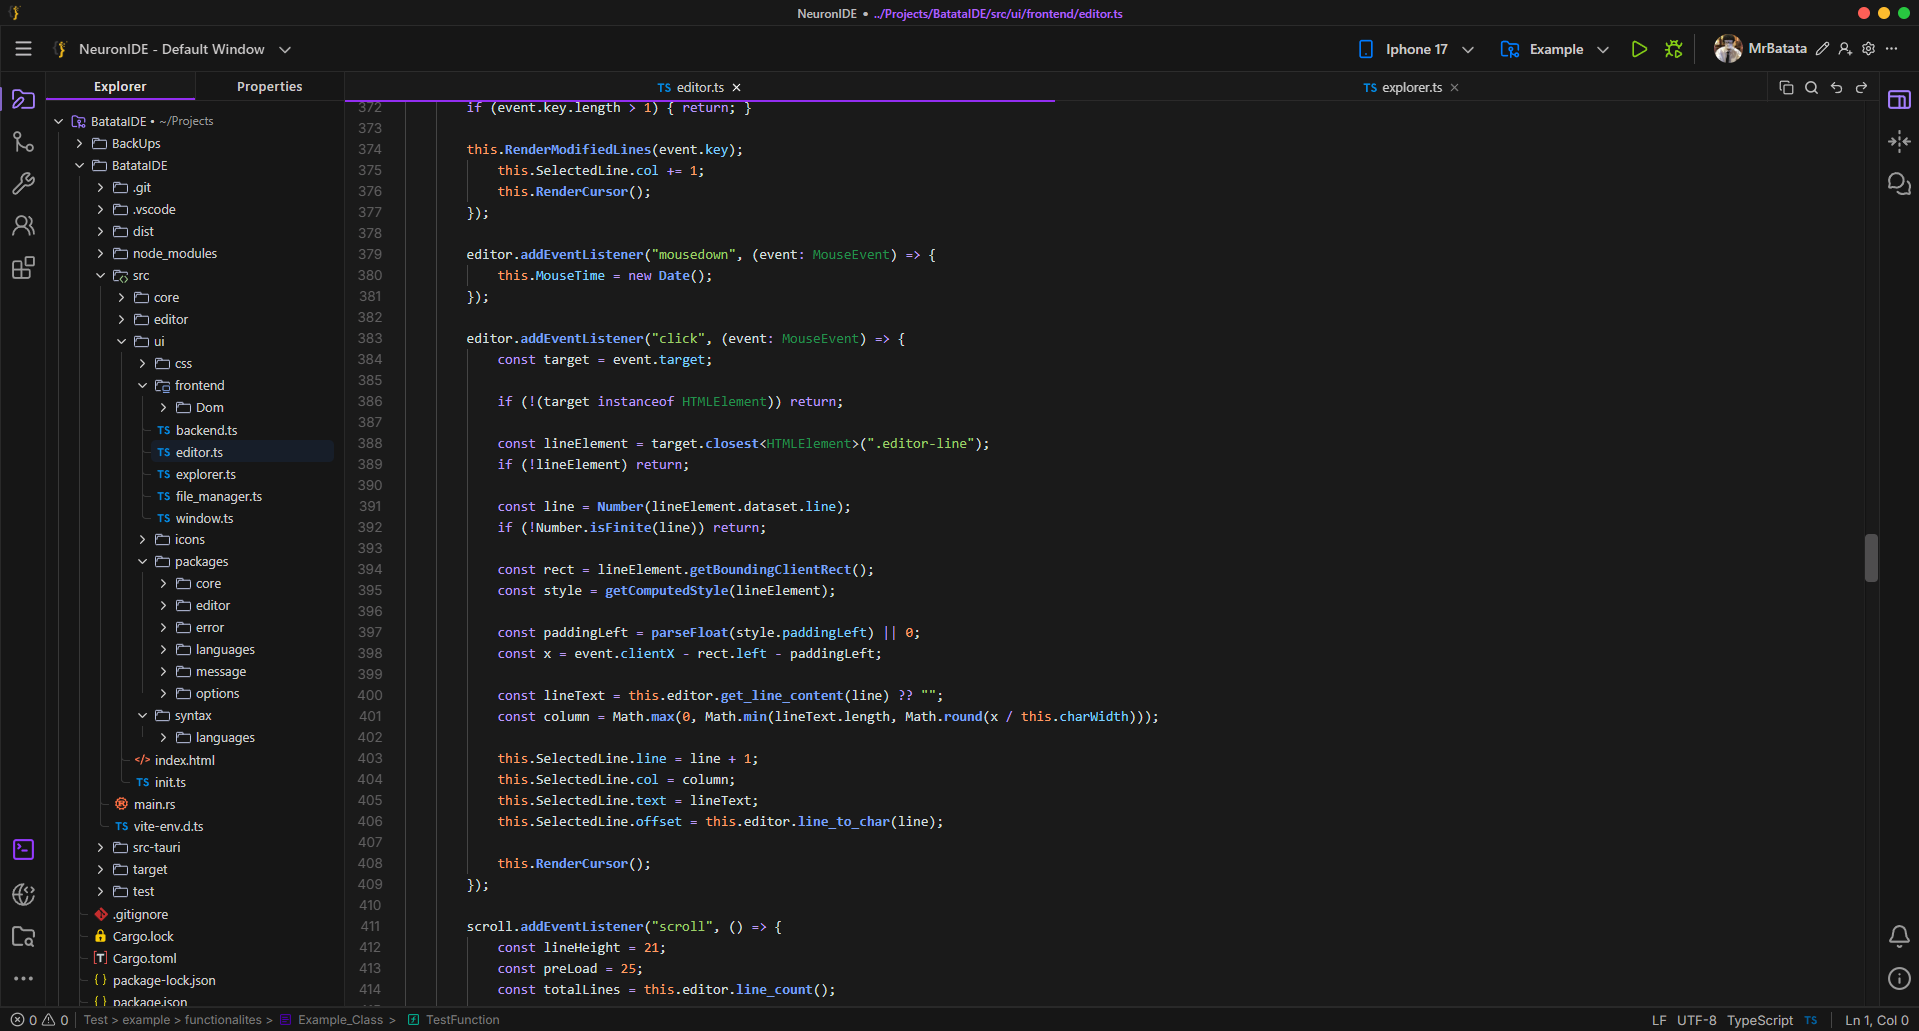
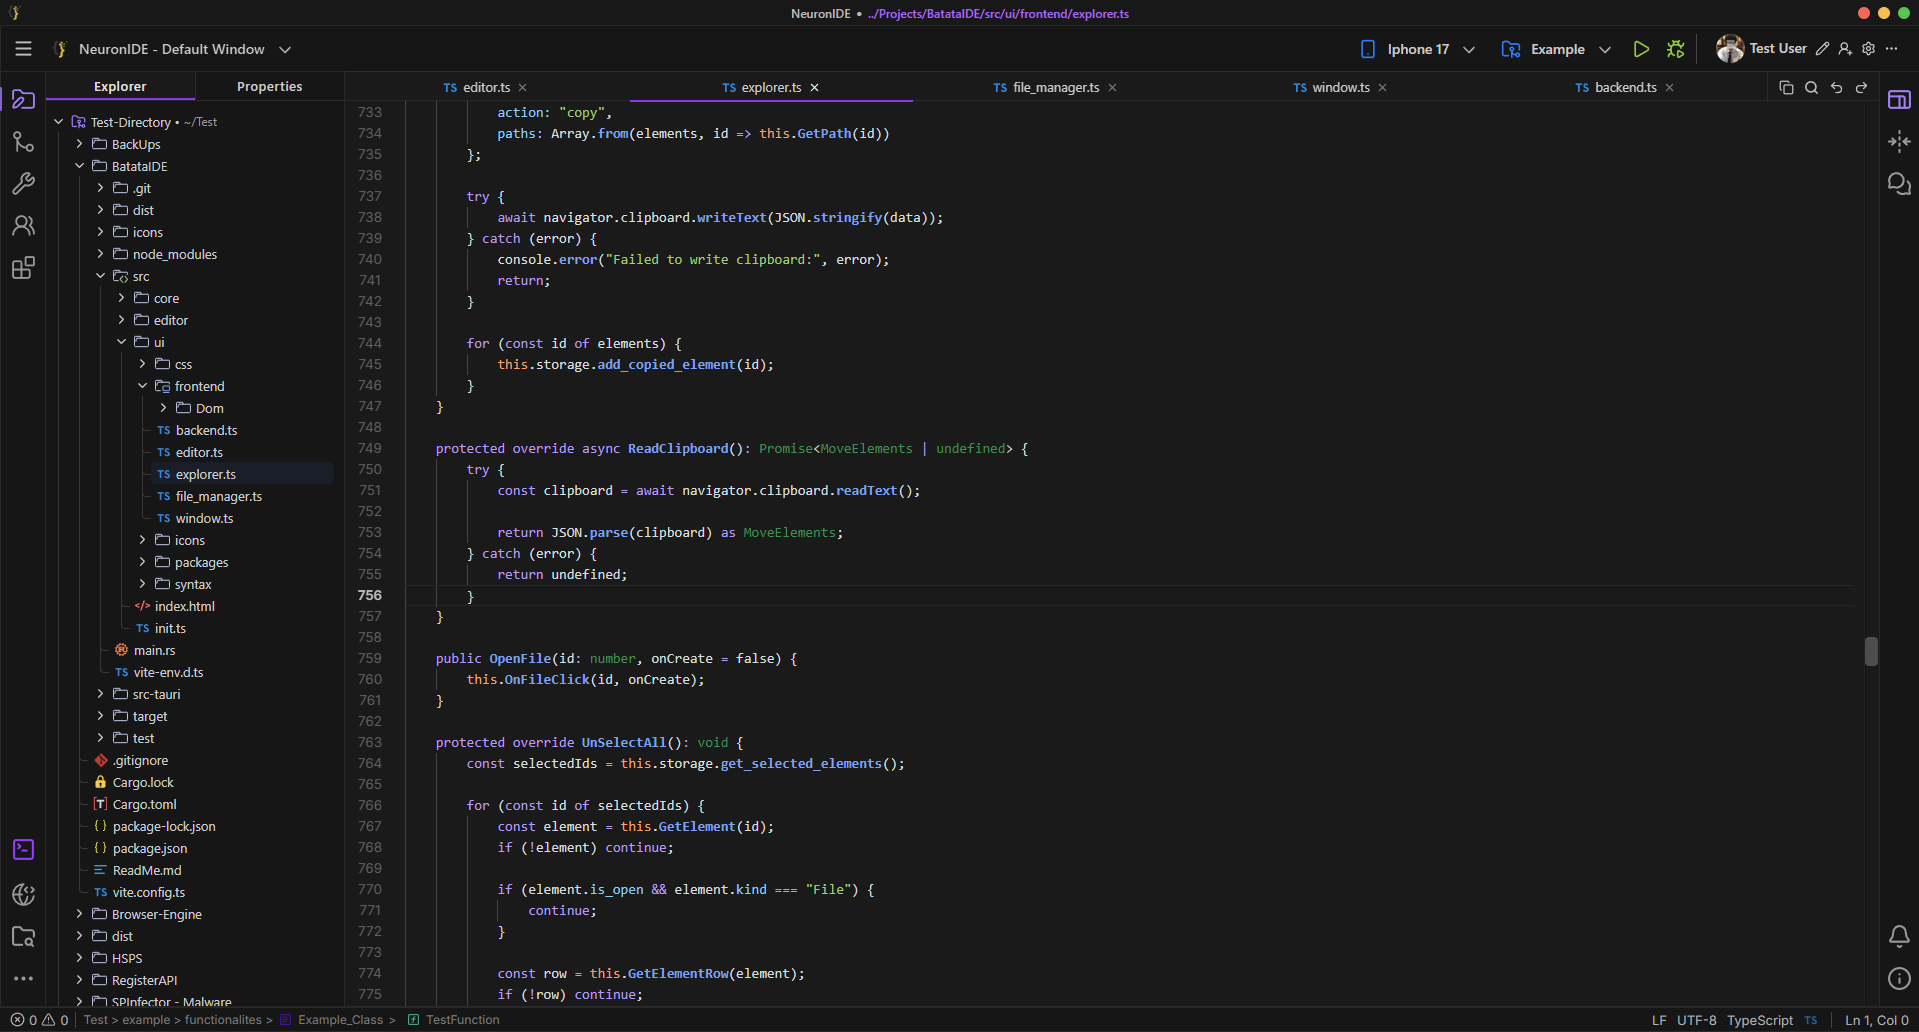
Initial commit - Pre-Alpha 1.9.0

diff --git a/src/ui/index.html b/src/ui/index.html
@@ -89,7 +89,7 @@
         <div class="user">
           <div class="profile_photo"><img src="./icons/settings/user.png"></div>
           <div class="username">
-            <span>MrBatata</span>
+            <span>Test User</span>
             <img src="./icons/settings/pen.svg">
             <img src="./icons/settings/new_account.svg">
             <img src="./icons/settings/settings.svg">

diff --git a/src/ui/frontend/Dom/tree.ts b/src/ui/frontend/Dom/tree.ts
@@ -81,7 +81,7 @@ export class DomUpdate {
             dot.textContent = "•";
 
             name.textContent = entry.name + " ";
-            title.textContent = "~/Projects";
+            title.textContent = "~/Test"; // Hardcoded just for now.
             title.className = "purple_btn";
 
             name.appendChild(dot);

diff --git a/src/ui/frontend/explorer.ts b/src/ui/frontend/explorer.ts
@@ -1225,7 +1225,7 @@ async function main(): Promise<void> {
     (window as any).editorModel = editor;
 
     model.addProject(Path, { 
-        name: "BatataIDE",
+        name: "Test-Directory",
         kind: "Directory",
         parent: null,
         is_open: false,

diff --git a/src-tauri/src/lib.rs b/src-tauri/src/lib.rs
@@ -74,6 +74,14 @@ pub struct FileScan {
     start_from: usize,
 }
 
+#[derive(serde::Serialize)]
+#[serde(rename_all = "camelCase")]
+pub struct Package {
+    pub text: String,
+    pub end_position: i32,
+    pub end: bool,
+}
+
 impl FileScan {
     pub fn new(path: PathBuf, limit: Option<usize>, start_from: usize) -> Self {
         Self {
@@ -111,13 +119,6 @@ async fn scan_directory(path: String, limit: Option<usize>, start_from: usize) -
     }).await.map_err(|e| e.to_string())?
 }
 
-#[derive(serde::Serialize)]
-#[serde(rename_all = "camelCase")]
-pub struct Package {
-    pub text: String,
-    pub end_position: i32,
-    pub end: bool,
-}
 
 #[tauri::command(rename_all = "camelCase")]
 async fn read_file(path: String, last_position: u64, load: usize,) -> Result<Package, String> {
@@ -235,6 +236,7 @@ pub fn run() {
     tauri::Builder::default()
         .manage(TerminalManager { terminals: Mutex::new(HashMap::new()), next_id: Mutex::new(0), })
         .setup(|app| {
+            // Terminal for the developing
             if cfg!(debug_assertions) {
                 app.handle().plugin(tauri_plugin_log::Builder::default().level(log::LevelFilter::Info).build())?;
             }
@@ -254,7 +256,7 @@ pub fn run() {
         .expect("error while building tauri application");
 }
 
-const FILE_CLIPBOARD_FORMAT: &str = "application/x-batataide-file-list";
+const FILE_CLIPBOARD_FORMAT: &str = "application/x-neuronide-file-list";
 
 #[tauri::command]
 fn write_file_clipboard(payload: String) -> Result<(), String> {
@@ -371,7 +373,5 @@ async fn rename_element (path: String, new_name: String) -> Result<(), String> {
         }
 
         std::fs::rename(old_path, new_path).map_err(|e| e.to_string())
-    })
-    .await
-    .map_err(|e| e.to_string())?
+    }).await.map_err(|e| e.to_string())?
 }
